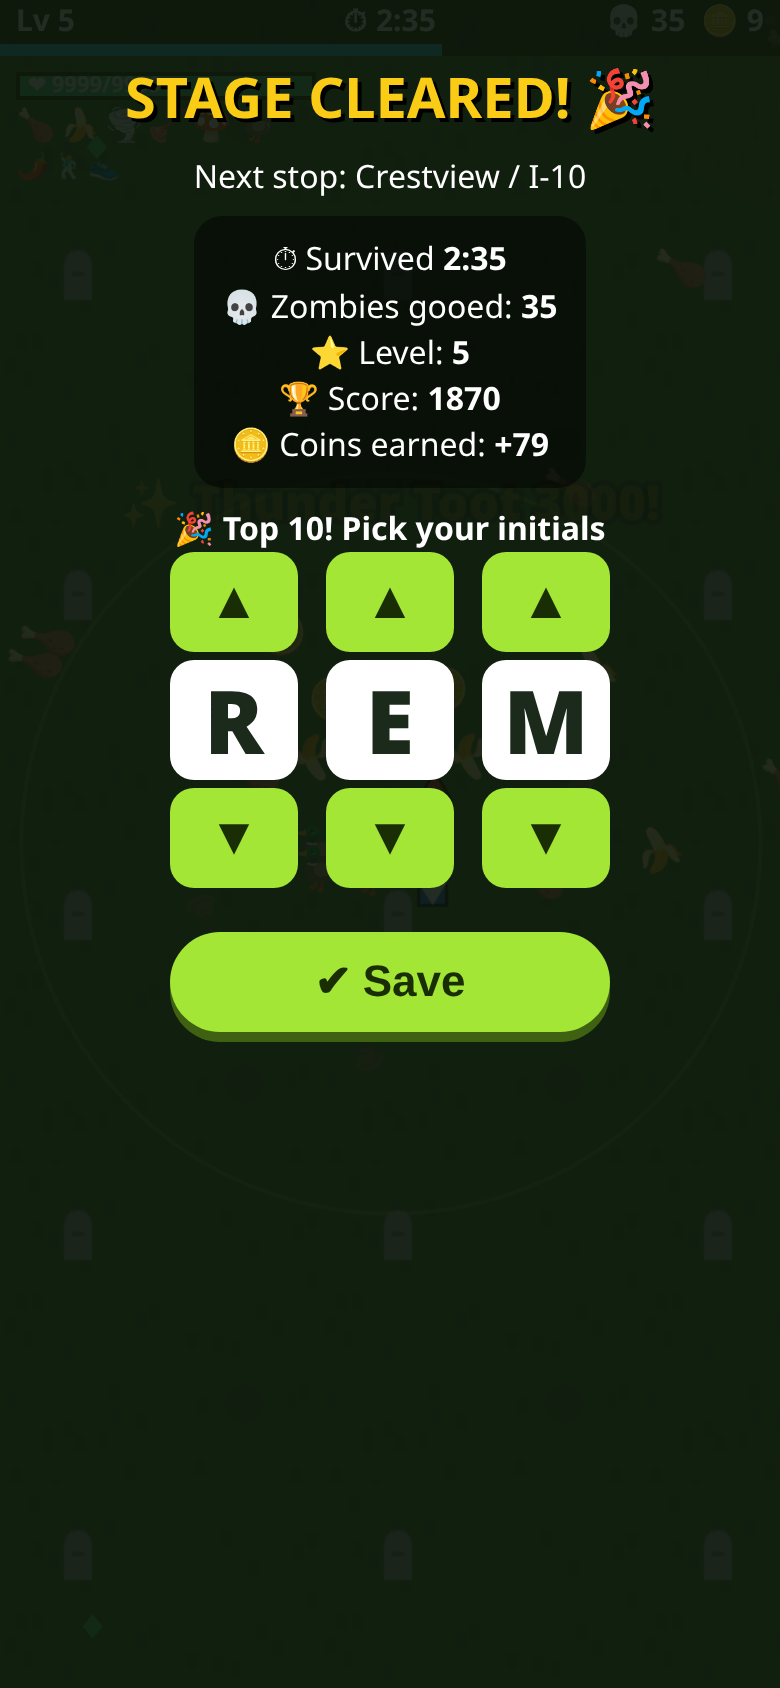
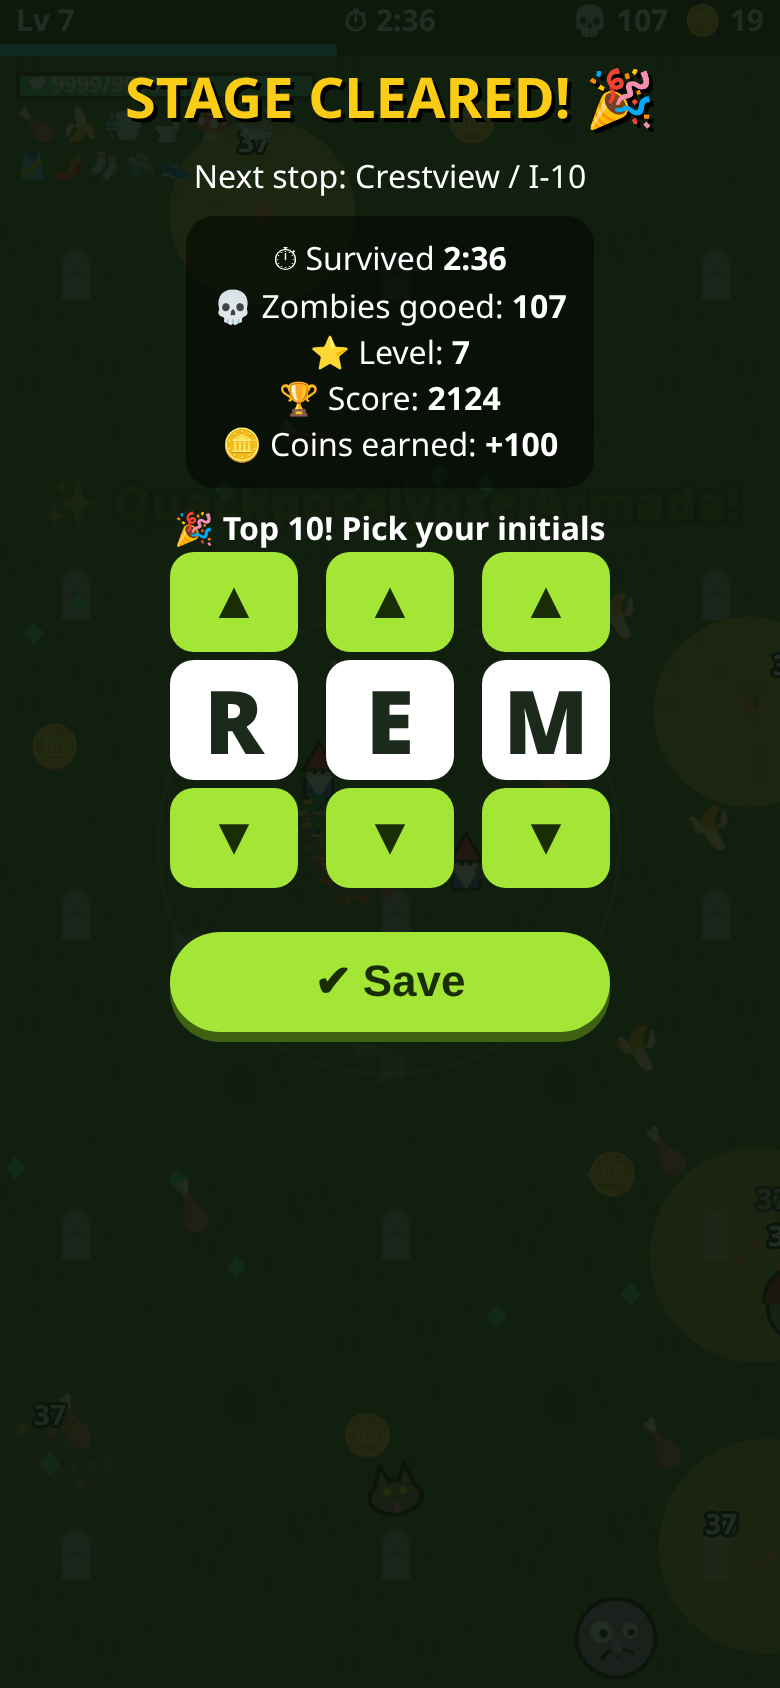
Crowded opening (horde rings, edge spawns, 2x early rate/cap), HUD+title sound toggle; SW v8

Changed region(s): [[0.2769, 0.154, 0.7385, 0.2773]]

diff --git a/game.js b/game.js
@@ -16,7 +16,9 @@ const DF=()=>DIFF[(G&&G.df)||save.diff];
 
 // ===== Audio =====
 let AC=null;const lastS={};
-function ac(){if(!AC){try{AC=new (window.AudioContext||window.webkitAudioContext)()}catch(e){}}if(AC&&AC.state==="suspended")AC.resume();return AC}
+function ac(){if(!AC){try{AC=new (window.AudioContext||window.webkitAudioContext)()}catch(e){}}if(AC&&AC.state==="suspended"&&!save.mute)AC.resume();return AC}
+function hudBtns(on){$("pauseB").classList.toggle("hidden",!on);$("muteHud").classList.toggle("hidden",!on)}
+function setMute(v){save.mute=v;persist();if(AC){v?AC.suspend():AC.resume()}const t=v?"🔇":"🔊";$("muteHud").textContent=t;$("muteHud").setAttribute("aria-label",v?"Sound off":"Sound on");$("muteB").textContent=v?"🔇 Sound off":"🔊 Sound on"}
 function tone(f1,f2,dur,type,vol,delay=0){const a=AC;if(!a)return;const t=a.currentTime+delay,o=a.createOscillator(),g=a.createGain();o.type=type;o.frequency.setValueAtTime(f1,t);o.frequency.exponentialRampToValueAtTime(Math.max(20,f2),t+dur);g.gain.setValueAtTime(vol,t);g.gain.exponentialRampToValueAtTime(.001,t+dur);o.connect(g).connect(a.destination);o.start(t);o.stop(t+dur+.02)}
 function noise(dur,vol,f=800){const a=AC;if(!a)return;const b=a.createBuffer(1,a.sampleRate*dur,a.sampleRate),d=b.getChannelData(0);for(let i=0;i<d.length;i++)d[i]=(Math.random()*2-1)*(1-i/d.length);const s=a.createBufferSource(),fl=a.createBiquadFilter(),g=a.createGain();fl.type="lowpass";fl.frequency.value=f;g.gain.value=vol;s.buffer=b;s.connect(fl).connect(g).connect(a.destination);s.start()}
 function sfx(n){if(save.mute||!AC)return;const now=performance.now();if(lastS[n]&&now-lastS[n]<60)return;lastS[n]=now;
@@ -146,13 +148,18 @@ function buildSprites(){
 function spawnZ(type,x,y,boss){const z=obtain("z"),T=ZT[type];const sc=G.mode==="journey"?G.diff:1,tm=1+G.t/100;
  const D=DF();Object.assign(z,{type,x,y,r:T.r,hp:T.hp*tm*sc*D.hp*(boss?1+G.bossN*.6:1),spd:T.spd*rnd(.9,1.1)*(type==="boss"?1:Math.min(1.5,1+G.t/900))*D.spd,dmg:T.dmg*(1+G.t/400)*D.dmg,xp:T.xp,flash:0,kx:0,ky:0,slow:0,wob:Math.random()*6,dash:0,dashCd:3,name:boss||""});
  z.max=z.hp;z.hit=z.hit||{};for(const k in z.hit)z.hit[k]=0;ent.z.push(z);return z}
-function spawnTick(dt){const t=G.t;if(G.bossAlive&&ent.z.length>120)return;
- const rate=(.8+t/30)*(G.mode==="journey"?(G.stage<2?.62:.75)+G.stage*.09:1.1);G.spawnAcc+=dt*Math.min(rate*DF().sp,36);
- while(G.spawnAcc>=1&&ent.z.length<Math.min(330,40+t*.8)){G.spawnAcc--;const a=Math.random()*7,d=Math.max(W,H)*.62+rnd(0,60);
+function edgePt(m=30){const p=G.p,hw=W/2+m,hh=H/2+m,per=2*(hw+hh),r=Math.random()*per;let x,y;if(r<2*hw){x=r-hw;y=Math.random()<.5?-hh:hh}else{y=r-2*hw-hh;x=Math.random()<.5?-hw:hw}return[p.x+x,p.y+y]}
+function waves(){const t=G.t,p=G.p;G.waveI=G.waveI||0;
+ if(G.waveI===0&&t>1.2){G.waveI=1;const n=30;for(let i=0;i<n;i++){const a=i/n*Math.PI*2;spawnZ(i%5===0?"runner":"shamb",p.x+Math.cos(a)*(W/2+25),p.y+Math.sin(a)*(H/2+25))}G.banner="🧟 THEY'RE EVERYWHERE!";G.bannerT=2;sfx("boss");G.shake=6}
+ if(G.waveI===1&&t>14){G.waveI=2;const[hx,hy]=edgePt();for(let i=0;i<14;i++)spawnZ("runner",hx+rnd(-40,40),hy+rnd(-40,40));G.banner="🏃 Runner pack!";G.bannerT=1.5}
+ if(G.waveI===2&&t>32){G.waveI=3;const n=36;for(let i=0;i<n;i++){const a=i/n*Math.PI*2;spawnZ(i%6===0?"dog":"shamb",p.x+Math.cos(a)*(W/2+25),p.y+Math.sin(a)*(H/2+25))}G.banner="🧟 Surrounded!";G.bannerT=1.5}}
+function spawnTick(dt){const t=G.t;waves();if(G.bossAlive&&ent.z.length>120)return;
+ const rate=(2.0+t/45)*(G.mode==="journey"?(G.stage<2?.62:.75)+G.stage*.09:1.1);G.spawnAcc+=dt*Math.min(rate*DF().sp,36);
+ while(G.spawnAcc>=1&&ent.z.length<Math.min(330,90+t*.6)){G.spawnAcc--;
   const pool=Object.keys(ZT).filter(k=>ZT[k].t<=t+(G.mode==="journey"?G.stage*11:0));
   let type="shamb";const r=Math.random();if(r<.45)type="shamb";else type=pick(pool);
-  if(Math.random()<.004*Math.min(1,t/60)){for(let i=0;i<10;i++)spawnZ(t>80?"dog":"runner",G.p.x+Math.cos(a)*d+rnd(-30,30),G.p.y+Math.sin(a)*d+rnd(-30,30))} // horde!
-  spawnZ(type,G.p.x+Math.cos(a)*d,G.p.y+Math.sin(a)*d)}
+  if(Math.random()<.004*Math.min(1,t/60)){const[hx,hy]=edgePt();for(let i=0;i<10;i++)spawnZ(t>80?"dog":"runner",hx+rnd(-30,30),hy+rnd(-30,30))} // horde!
+  const[ex,ey]=edgePt();spawnZ(type,ex,ey)}
  if(t>=G.nextBoss&&!G.bossAlive){const nm=G.mode==="journey"?STAGES[G.stage].boss:pick(["Big Gulp Gary","Principal Brains","Mega Mall Santa","Sir Moans-a-Lot","Grill Master Ghoul"]);
   const a=Math.random()*7;G.bossAlive=spawnZ("boss",G.p.x+Math.cos(a)*380,G.p.y+Math.sin(a)*380,nm);G.bossN++;G.banner="⚠ BOSS: "+nm;G.bannerT=3;sfx("boss");G.shake=12;
   G.nextBoss=G.mode==="journey"?1e9:G.t+150}}
@@ -185,7 +192,7 @@ function bullet(o){const b=obtain("b");b.hits=b.hits||[];b.hits.length=0;Object.
 // ===== Weapons =====
 function wUpdate(dt){const p=G.p,S=stat();for(const k of G.order){const w=G.w[k],L=w.lv,E=w.evo;w.cd-=dt;w.a+=dt;
  switch(k){
- case"chicken":if(w.cd<=0){w.cd=(E?.25:.4-L*.02)*S.cd;const n=(L>=3?2:1)+(L>=5?1:0)+(E?1:0);G.shots=(G.shots||0)+n;const ts=nearestN(p.x,p.y,n);for(let i=0;i<n;i++){const t=ts[i%Math.max(1,ts.length)];if(!t&&i>0)break;const a=t?Math.atan2(t.y-p.y,t.x-p.x)+(ts.length<n&&i?(i%2?.15:-.15):0):Math.atan2(p.dy,p.dx);
+ case"chicken":if(w.cd<=0){w.cd=(E?.25:.4-L*.02)*S.cd;const n=(L>=3?2:1)+(L>=5?1:0)+(E?1:0);G.shots=(G.shots||0)+n;const ts=nearestN(p.x,p.y,n,Math.max(W,H)/2+20);for(let i=0;i<n;i++){const t=ts[i%Math.max(1,ts.length)];if(!t&&i>0)break;const a=t?Math.atan2(t.y-p.y,t.x-p.x)+(ts.length<n&&i?(i%2?.15:-.15):0):Math.atan2(p.dy,p.dx);
    bullet({k:"chicken",x:p.x,y:p.y,vx:Math.cos(a)*460,vy:Math.sin(a)*460,r:9,dmg:8+L*3+(E?10:0),pierce:1+Math.floor(L/3),spr:E?"🍗":"🐔",ex:E?55*S.area:0,kb:45})}sfx("squeak")}break;
  case"banana":if(w.cd<=0){w.cd=(E?1.1:1.8-L*.1)*S.cd;const n=(E?6:1+Math.floor((L-1)/2));const bt=nearest(p.x,p.y,600),base=bt?Math.atan2(bt.y-p.y,bt.x-p.x):Math.atan2(p.dy,p.dx);for(let i=0;i<n;i++){const a=base+i*Math.PI*2/n*(E?1:.35)-(E?0:(n-1)*.17);
    bullet({k:"banana",x:p.x,y:p.y,vx:Math.cos(a)*360,vy:Math.sin(a)*360,ax:-Math.cos(a)*360,ay:-Math.sin(a)*360,r:12*S.area,dmg:8+L*3+(E?12:0),pierce:999,l:2,spr:E?"🍨":"🍌",spin:1})}sfx("boing")}break;
@@ -253,7 +260,7 @@ function options(){const o=[];
  const ev=o.filter(x=>x.pri),rest=o.filter(x=>!x.pri).sort(()=>Math.random()-.5);const r=[...ev,...rest].slice(0,3);
  while(r.length<3)r.push(r.length%2?{t:"heal"}:{t:"gold"});return r}
 let chestMode=false;
-function openCards(chest){chestMode=chest;state="lvl";$("pauseB").classList.add("hidden");joy.on=false;
+function openCards(chest){chestMode=chest;state="lvl";hudBtns(false);joy.on=false;
  $("lvlT").textContent=chest?"🎁 BOSS LOOT!":"LEVEL "+G.lvl+"! 🎉";$("lvlSub").textContent=chest?"The boss dropped a goodie bag. Pick a prize!":pick(["Pick one. Choose wisely. Or don't.","The zombies will politely wait.","Your power grows. So does your weirdness.","Mom would want you to pick the healthy one."]);
  const box=$("cards");box.innerHTML="";for(const op of options()){const b=document.createElement("button");b.className="up"+(op.t==="evo"?" evo":"");let ic,nm,ds,fl,tg="";
   if(op.t==="evo"){const W=W8[op.k];ic=W.ei;nm=W.en;ds="EVOLVE "+W.n+" + "+PS[W.evo].n;fl=W.ef;tg="EVOLVE!"}
@@ -266,7 +273,7 @@ function openCards(chest){chestMode=chest;state="lvl";$("pauseB").classList.add(
 function choose(op){if(op.t==="evo"){G.w[op.k].evo=true;G.banner="✨ "+W8[op.k].en+"!";G.bannerT=2.5;sfx("win")}
  else if(op.t==="w"){if(G.w[op.k])G.w[op.k].lv++;else addWeapon(op.k)}else if(op.t==="p"){G.ps[op.k]=(G.ps[op.k]||0)+1;if(op.k==="wrap"){G.p.armor++;G.p.maxHp+=15;G.p.hp+=15}}
  else if(op.t==="heal")G.p.hp=Math.min(G.p.maxHp,G.p.hp+40);else G.coins+=15;
- hideAll();state="play";$("pauseB").classList.remove("hidden");last=performance.now()}
+ hideAll();state="play";hudBtns(true);last=performance.now()}
 
 // ===== Main loop =====
 let last=performance.now(),fps=60;
@@ -327,12 +334,12 @@ function hud(){const p=G.p,top=0;cx.fillStyle="#0009";cx.fillRect(0,top,W,28);cx
 const SCR=["title","comic","map","heroes","shop","lvl","paused","over","board"];
 function hideAll(){SCR.forEach(s=>$(s).classList.add("hidden"))}
 function show(s){hideAll();$(s).classList.remove("hidden")}
-function goTitle(){state="title";G=null;$("pauseB").classList.add("hidden");$("coinS").textContent="🪙 "+save.coins+" coins  •  Hero: "+HEROES[save.hero].i+" "+HEROES[save.hero].n;renderDiff();$("muteB").textContent=save.mute?"🔇 Sound off":"🔊 Sound on";
+function goTitle(){state="title";G=null;hudBtns(false);$("coinS").textContent="🪙 "+save.coins+" coins  •  Hero: "+HEROES[save.hero].i+" "+HEROES[save.hero].n;renderDiff();setMute(save.mute);
  cx.setTransform(DPR,0,0,DPR,0,0);cx.fillStyle="#1b2a1a";cx.fillRect(0,0,W,H);show("title")}
-function startRun(mode){ac();newRun(mode);hideAll();state="play";$("pauseB").classList.remove("hidden");last=performance.now()}
-function pause(){if(state!=="play")return;state="paused";joy.on=false;$("pauseB").classList.add("hidden");
+function startRun(mode){ac();newRun(mode);hideAll();state="play";hudBtns(true);last=performance.now()}
+function pause(){if(state!=="play")return;state="paused";joy.on=false;hudBtns(false);
  $("pauseInfo").innerHTML="<b>Weapons:</b><br>"+G.order.map(k=>(G.w[k].evo?W8[k].ei+" "+W8[k].en:W8[k].i+" "+W8[k].n+" Lv "+G.w[k].lv)).join("<br>")+"<br><b>Gear:</b><br>"+(Object.keys(G.ps).map(k=>PS[k].i+" "+PS[k].n+" Lv "+G.ps[k]).join("<br>")||"none yet");show("paused")}
-$("pauseB").onclick=pause;$("resumeB").onclick=()=>{hideAll();state="play";$("pauseB").classList.remove("hidden");last=performance.now()};$("quitB").onclick=()=>endRun(false,true);
+$("pauseB").onclick=pause;$("resumeB").onclick=()=>{hideAll();state="play";hudBtns(true);last=performance.now()};$("quitB").onclick=()=>endRun(false,true);
 document.addEventListener("visibilitychange",()=>{if(document.hidden)pause()});
 
 // comic
@@ -367,7 +374,7 @@ $("mapC").onclick=e=>{const r=e.target.getBoundingClientRect(),x=(e.clientX-r.le
 $("journeyB").onclick=()=>{ac();if(!save.seenIntro){comic(INTRO,()=>{save.seenIntro=true;persist();openMap()})}else openMap()};
 $("storyB").onclick=()=>{ac();comic(INTRO,()=>{save.seenIntro=true;persist();goTitle()})};
 $("mapGo").onclick=()=>startRun("journey");$("mapBack").onclick=goTitle;$("endlessB").onclick=()=>startRun("endless");
-$("muteB").onclick=()=>{save.mute=!save.mute;persist();ac();goTitle()};
+$("muteB").onclick=()=>{ac();setMute(!save.mute)};$("muteHud").onclick=e=>{e.stopPropagation();ac();setMute(!save.mute)};
 
 function renderDiff(){const r=$("diffRow");r.innerHTML="";for(const k in DIFF){const b=document.createElement("button");b.className="btn sm"+(save.diff===k?"":" dim");b.dataset.d=k;b.textContent=DIFF[k].n;b.onclick=()=>{save.diff=k;persist();sfx("boing");goTitle()};r.appendChild(b)}
  $("diffInfo").textContent="Coins x"+DIFF[save.diff].coin+" • Journey: "+prog().cleared.length+"/"+STAGES.length+" towns cleared"}
@@ -386,7 +393,7 @@ function bagPick(N,key){N=N||[];if(!N.length)return null;let bag=LS.get(key+"bag
 // end of run & board
 let pendingScore=null;
 function score(){return Math.floor(G.t)*10+G.kills*2+G.lvl*50}
-function endRun(won,quit){if(state==="over")return;state="over";$("pauseB").classList.add("hidden");const earned=Math.round((G.coins+Math.floor(G.kills/15*stat().coin)+(won?50+G.stage*20:0))*DF().coin);save.coins+=earned;
+function endRun(won,quit){if(state==="over")return;state="over";hudBtns(false);const earned=Math.round((G.coins+Math.floor(G.kills/15*stat().coin)+(won?50+G.stage*20:0))*DF().coin);save.coins+=earned;
  let finale=false;if(won&&G.mode==="journey"){if(!prog().cleared.includes(G.stage))prog().cleared.push(G.stage);if(G.stage===LAST)finale=true;else prog().stage=Math.max(prog().stage,G.stage+1)}persist();
  const mm=Math.floor(G.t/60),ss=String(Math.floor(G.t%60)).padStart(2,"0");const sc=score();
  const dn=$("dadNote");if(!won&&!quit){const n=nextDadNote();if(n){dn.innerHTML='<div class="dadT">💌 A note from Dad</div><div class="dadB"></div><div class="dadS">— Dad</div>';dn.querySelector(".dadB").textContent=n;dn.classList.remove("hidden")}else dn.classList.add("hidden")}else dn.classList.add("hidden");
@@ -410,4 +417,4 @@ $("topB").onclick=()=>{$("boardTitle").textContent="🏆 Top 10 — "+DIFF[save.
 
 buildSprites();goTitle();requestAnimationFrame(loop);
 // test hooks
-window.__rs={bagPick,nearest,prog,get G(){return G},get state(){return state},ent,save:()=>save,options,choose,spawnZ,openCards,endRun,stat,fps:()=>fps};
+window.__rs={setMute,get AC(){return AC},bagPick,nearest,prog,get G(){return G},get state(){return state},ent,save:()=>save,options,choose,spawnZ,openCards,endRun,stat,fps:()=>fps};

diff --git a/index.html b/index.html
@@ -6,6 +6,7 @@
 <style>
 html,body{margin:0;height:100%;background:#1b2a1a;overflow:hidden;touch-action:none;-webkit-user-select:none;user-select:none;font-family:system-ui,"Comic Sans MS",sans-serif;color:#fff}
 canvas#c{display:block;width:100vw;height:100vh;height:100dvh}
+#muteHud{position:fixed;top:calc(env(safe-area-inset-top,0px) + 34px);right:58px;font-size:22px;border:0;border-radius:12px;background:#0009;color:#fff;padding:6px 11px;z-index:5}
 #pauseB{position:fixed;top:calc(env(safe-area-inset-top,0px) + 34px);right:8px;font-size:22px;border:0;border-radius:12px;background:#0009;color:#fff;padding:6px 11px;z-index:5}
 .screen{position:fixed;inset:0;display:flex;flex-direction:column;align-items:center;justify-content:flex-start;background:#0d170ce8;text-align:center;gap:9px;padding:30px 14px 20px;overflow:auto;z-index:10;box-sizing:border-box}
 .screen.center{justify-content:safe center}
@@ -38,14 +39,14 @@ table{border-collapse:collapse;font-size:14px;background:#0007;border-radius:12p
 .vT{font-size:13px;font-weight:800;color:#7c2d12;margin-bottom:6px}.vB{font-size:16px;line-height:1.45;font-family:Georgia,serif;font-style:italic}.vR{margin-top:8px;font-size:13px;font-weight:700;font-family:Georgia,serif}
 </style></head><body>
 <canvas id="c"></canvas>
-<button id="pauseB" class="hidden" aria-label="Pause">⏸</button>
+<button id="pauseB" class="hidden" aria-label="Pause">⏸</button><button id="muteHud" class="hidden" aria-label="Sound on">🔊</button>
 <div class="screen center" id="title"><div style="font-size:54px">🧟♂🐔🍌</div><h1>Remy<br>Survivor</h1>
 <p>Fight your way home from Niceville, FL to Pamplico, SC with the silliest weapons ever invented.</p>
 <p id="coinS" class="card">🪙 0</p>
 <div id="diffRow" class="row"></div><p id="diffInfo" style="font-size:13px;opacity:.85"></p><button class="btn" id="journeyB">🗺 Journey Home</button><button class="btn alt" id="endlessB">♾ Endless Mode</button>
 <div class="row"><button class="btn sm" id="heroB">🧑 Heroes</button><button class="btn sm" id="shopB">🛒 Shop</button><button class="btn sm" id="topB">🏆 Top 10</button><button class="btn sm" id="storyB">📖 Story</button></div>
 <button class="btn sm blue" id="installBtn">📲 Install app</button><div id="installHelp" class="card hidden">Tap Chrome's <b>⋮</b> menu → <b>Install app</b> / <b>Add to Home screen</b><br><small>(iPhone: Share ⬆ → Add to Home Screen)</small><br><button class="btn sm" id="helpOk">OK</button></div>
-<button class="btn sm" id="muteB" style="background:#334155;color:#fff;box-shadow:none">🔊 Sound on</button></div>
+<button class="btn sm" id="muteB" style="background:#334155;color:#fff;box-shadow:0 4px 0 #0f172a;font-size:20px">🔊 Sound on</button></div>
 <div class="screen center hidden" id="comic"><div id="comicP"></div><div class="row"><button class="btn" id="comicN">Next ▶</button><button class="btn sm alt" id="comicS">Skip ⏭</button></div></div>
 <div class="screen hidden" id="map"><h2>🗺 The Road Home</h2><canvas id="mapC" width="720" height="840"></canvas><div id="mapInfo" class="card"></div><button class="btn" id="mapGo">▶ Play stage</button><button class="btn sm" id="mapBack">⬅ Back</button></div>
 <div class="screen hidden" id="heroes"><h2>🧑 Heroes</h2><div id="heroList" style="display:flex;flex-direction:column;gap:8px;align-items:center;width:100%"></div><button class="btn sm" id="heroBack">⬅ Back</button></div>
@@ -56,8 +57,8 @@ table{border-collapse:collapse;font-size:14px;background:#0007;border-radius:12p
 <div id="ini" class="hidden"><p><b>🎉 Top 10! Pick your initials</b></p><div id="iniCols"></div><br><button class="btn" id="iniSave">✔ Save</button></div>
 <div id="overBoard"></div><div id="overBtns" style="display:flex;flex-direction:column;gap:10px;align-items:center"><button class="btn" id="againB">🔁 Again</button><button class="btn sm alt" id="homeB">🏠 Home</button></div></div>
 <div class="screen hidden" id="board"><h2 id="boardTitle">🏆 Top 10</h2><div id="boardList"></div><button class="btn sm" id="boardBack">⬅ Back</button></div>
-<script src="dadnotes.js?v=7"></script><script src="verses.js?v=7"></script><script src="game.js?v=7"></script>
-<script>if('serviceWorker'in navigator&&location.protocol!=='file:')navigator.serviceWorker.register('sw.js?v=7');
+<script src="dadnotes.js?v=8"></script><script src="verses.js?v=8"></script><script src="game.js?v=8"></script>
+<script>if('serviceWorker'in navigator&&location.protocol!=='file:')navigator.serviceWorker.register('sw.js?v=8');
 let deferredPrompt=null;const ib=document.getElementById("installBtn"),hp=document.getElementById("installHelp");
 const standalone=()=>matchMedia("(display-mode: standalone)").matches||matchMedia("(display-mode: fullscreen)").matches||navigator.standalone;
 if(standalone())ib.classList.add("hidden");

diff --git a/sw.js b/sw.js
@@ -1,5 +1,5 @@
-const VER="7",CACHE="remysurv-v"+VER;
-const SHELL=["./","index.html","dadnotes.js?v=7","verses.js?v=7","game.js?v=7","manifest.webmanifest","icons/icon-192.png","icons/icon-512.png","icons/maskable-512.png"];
+const VER="8",CACHE="remysurv-v"+VER;
+const SHELL=["./","index.html","dadnotes.js?v=8","verses.js?v=8","game.js?v=8","manifest.webmanifest","icons/icon-192.png","icons/icon-512.png","icons/maskable-512.png"];
 self.addEventListener("install",e=>{e.waitUntil(caches.open(CACHE).then(c=>c.addAll(SHELL.map(u=>new Request(u,{cache:"reload"})))).then(()=>self.skipWaiting()))});
 self.addEventListener("activate",e=>{e.waitUntil(caches.keys().then(ks=>Promise.all(ks.filter(k=>k.startsWith("remysurv-")&&k!==CACHE).map(k=>caches.delete(k)))).then(()=>self.clients.claim()))});
 self.addEventListener("fetch",e=>{const r=e.request;if(r.method!=="GET"||new URL(r.url).origin!==location.origin)return;
